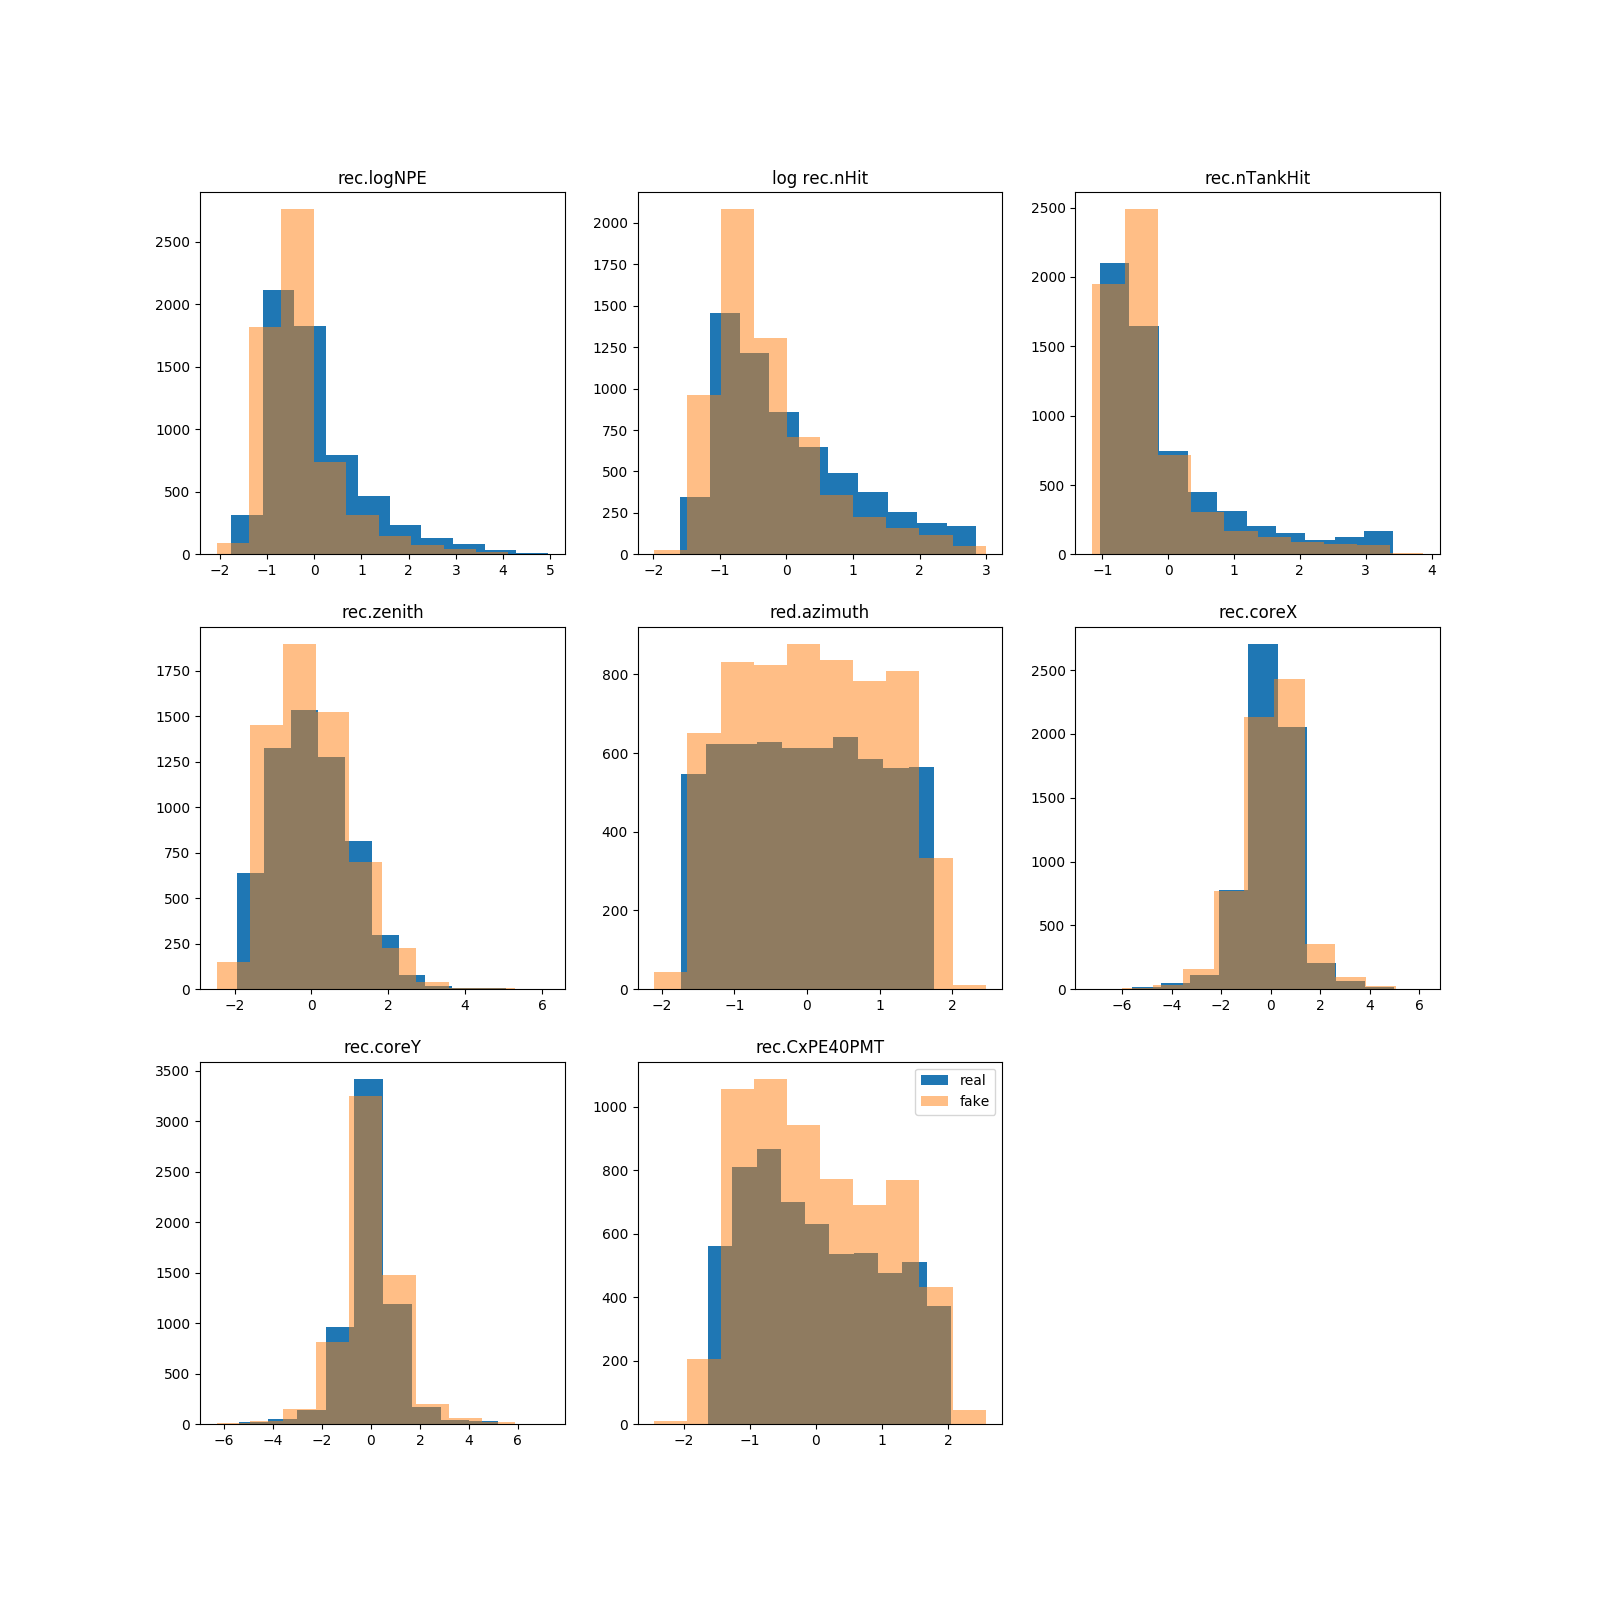
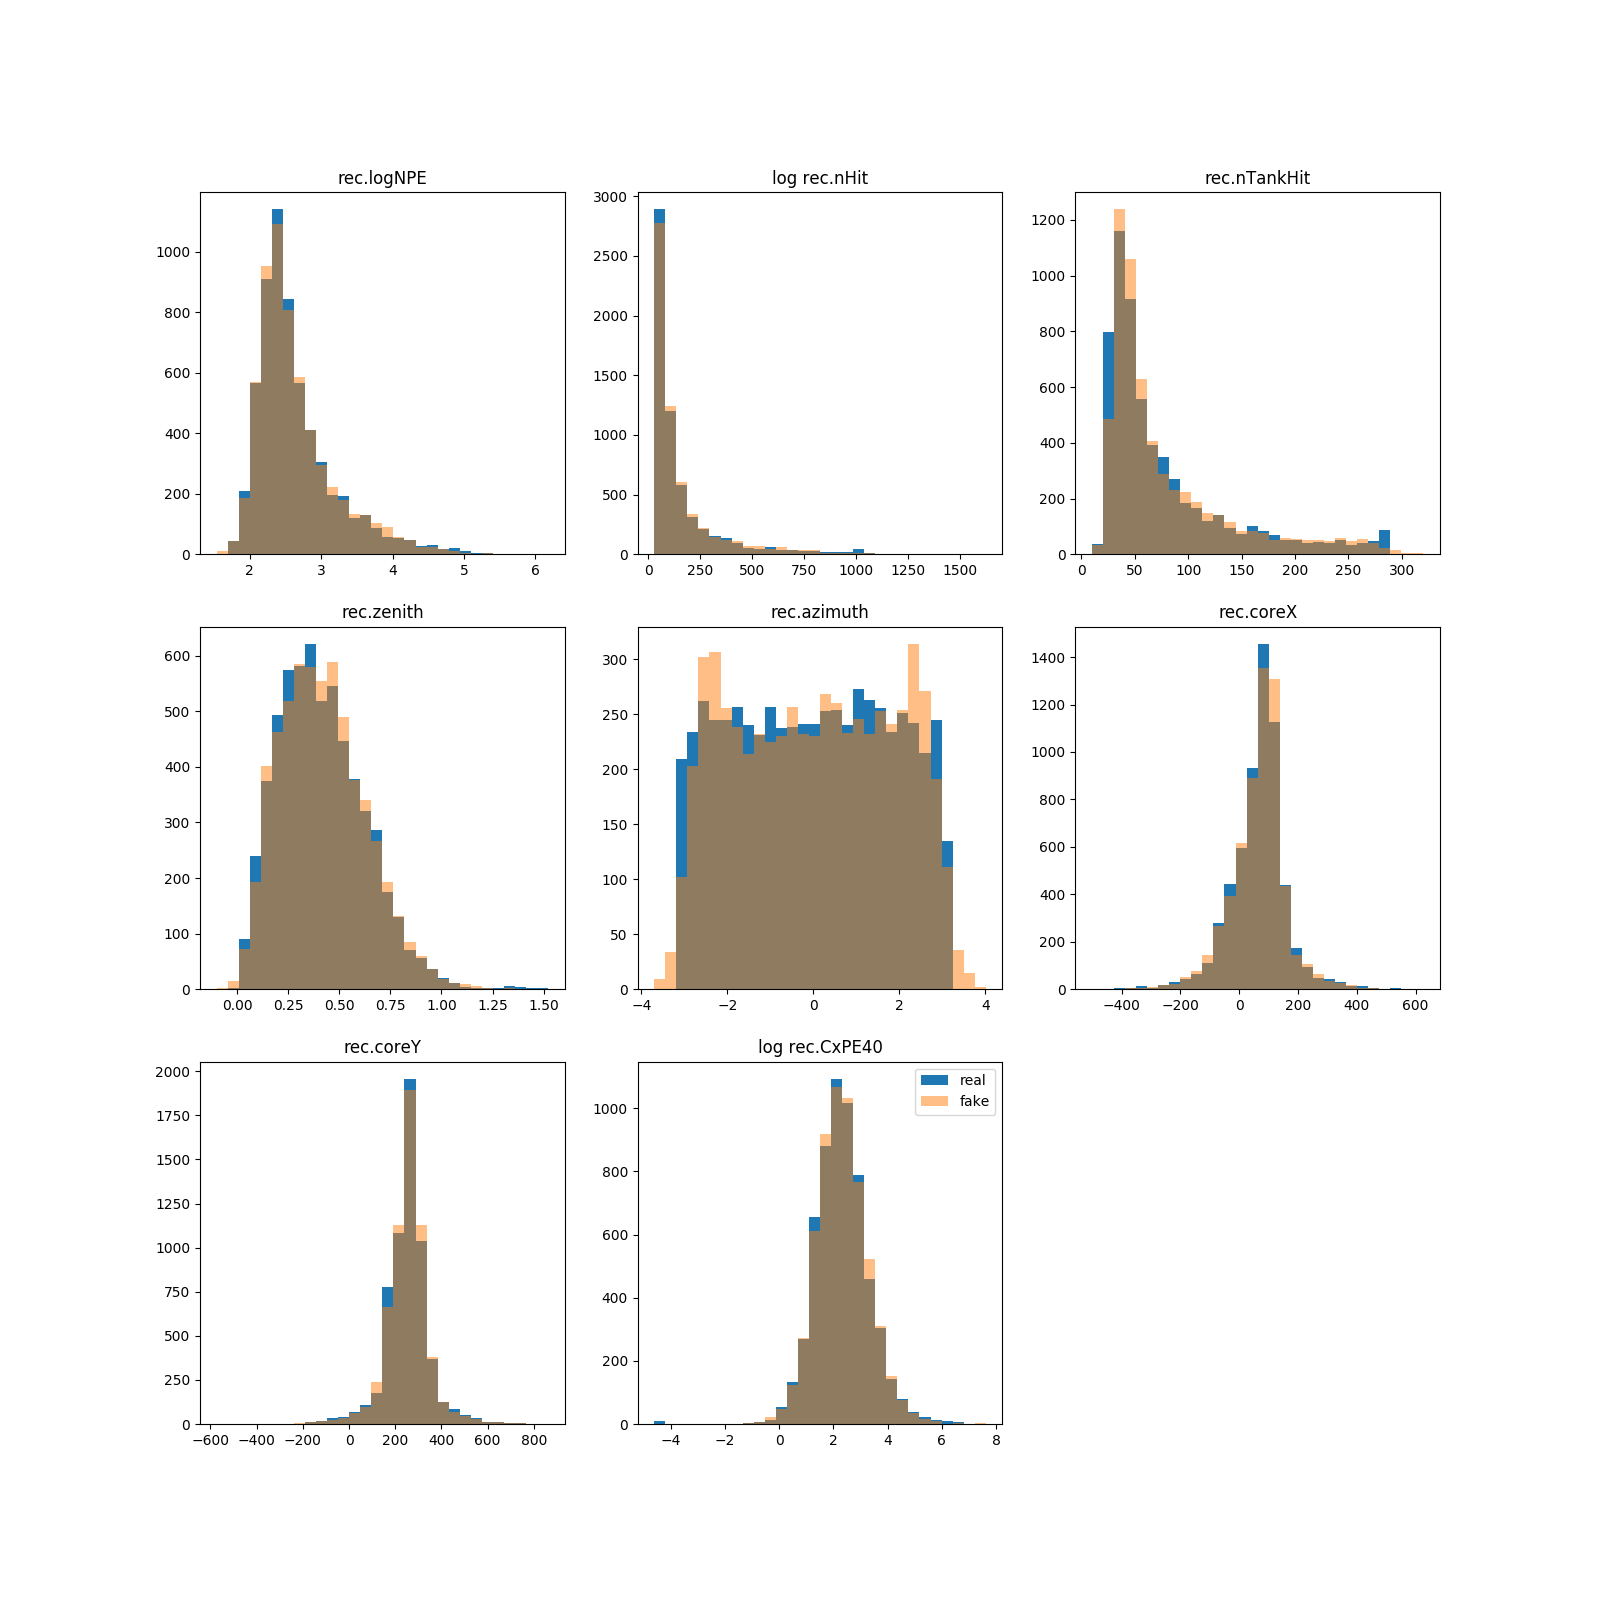
Updated plot for non-conditional 1D GAN

diff --git a/param-gen/Vanilla 1DGAN/parameterGAN.py b/param-gen/Vanilla 1DGAN/parameterGAN.py
@@ -68,7 +68,10 @@ dd = {'u': uniform, 'n': normal, 'e': exponential} 	# Dictionary of different di
 # latent   = [dd['n'](0, 1)] * 10 + [dd['n'](0, 1)] * 6 + [dd['e'](1)] * 4
 latent = [dd['n'](0, 1)] * z_dim			# Creates a latent space entirely sampled from N(0, 1)
 labels = {0: "rec.logNPE", 1: "log rec.nHit", 2: "rec.nTankHit", 3: "rec.zenith", 
-          4: "red.azimuth", 5: "rec.coreX", 6: "rec.coreY", 7: "log rec.CxPE40"}
+          4: "rec.azimuth", 5: "rec.coreX", 6: "rec.coreY", 7: "log rec.CxPE40"}
+means   = [2.6437070e+00, 4.6785073e+00, 7.7988869e+01, 4.1661051e-01, -1.4959634e-02, 6.5947525e+01, 2.5352551e+02, 2.3246317e+00]  # List of means for the loaded data
+stddevs = [0.5642389, 0.80296326, 61.57711, 0.2091742, 1.8062998, 94.742744, 94.72378, 0.9968804]									 # List of standard deviations for the loaded data
+logs    = [0, 1, 0, 0, 0, 0, 0, 0]																									 # Keep track of variables where we applied log	
 ## Sanity Checks ##
 assert z_dim >= Dimension
 assert z_dim == len(latent)
@@ -133,8 +136,8 @@ for epoch in range(epochs):
 		  (epoch, Gloss, total_loss, time.time() - train_t, lr))
 	# Just in case overfitting causes mode collapse
 	lr *= lr_decay
-	# Visualize the output every 10 epochs
-	if epoch % 10 == 0:
+	# Visualize the train output every 10 epochs
+	if epoch % 10 == 0 and epoch % 100 != 0:
 		with torch.no_grad():
 			D.eval()
 			G.eval()
@@ -157,13 +160,20 @@ for epoch in range(epochs):
 			for i in range(Dimension):
 				plt.subplot(x, y, i+1)
 				plt.title(labels[i])
-				plt.hist(real[:,i]   , alpha=1, bins=30, range=(-6,6), label='real')
-				plt.hist(samples[:,i], alpha=.5, bins=30, range=(-6,6), label='fake')
+				realhist = (real[:,i]*stddevs[i])+means[i]
+				fakehist = (samples[:,i]*stddevs[i])+means[i]
+				if (logs[i] == 1):
+					realhist = np.exp(realhist)
+					fakehist = np.exp(fakehist)
+				bins = np.histogram(np.hstack((realhist, fakehist)), bins=30)[1]
+				plt.hist(realhist, bins, alpha=1, label='real')
+				plt.hist(fakehist, bins, alpha=.5, label='fake')
+
 			plt.legend(loc='upper right')
 			plt.savefig('paramGANplots/hist'+str(epoch)+".png")
 			plt.close(fig)
 	test_inp = None
-	# Visualize the output every 100 epochs
+	# Visualize the test output every 100 epochs
 	if epoch % 100 == 0:
 		with torch.no_grad():
 			D.eval()
@@ -191,8 +201,14 @@ for epoch in range(epochs):
 			for i in range(Dimension):
 				plt.subplot(x, y, i+1)
 				plt.title(labels[i])
-				plt.hist(real[:,i]   , alpha=1, bins=30, range=(-6,6), label='real')
-				plt.hist(samples[:,i], alpha=.5, bins=30, range=(-6,6), label='fake')
+				realhist = (real[:,i]*stddevs[i])+means[i]
+				fakehist = (samples[:,i]*stddevs[i])+means[i]
+				if (logs[i] == 1):
+					realhist = np.exp(realhist)
+					fakehist = np.exp(fakehist)
+				bins = np.histogram(np.hstack((realhist, fakehist)), bins=30)[1]
+				plt.hist(realhist, bins, alpha=1, label='real')
+				plt.hist(fakehist, bins, alpha=.5, label='fake')
 			plt.legend(loc='upper right')
 			plt.savefig('paramGANplots/hist'+str(epoch)+".png")
 			plt.close(fig)

diff --git a/parse_hawc.py b/parse_hawc.py
@@ -22,10 +22,10 @@ def gen_gamma_params(path="./HAWC/"):
         xf = XCDFFile(xcdf_file)
         data = []
         # Normal 1D (no conditional)
-        # params = "rec.logNPE, rec.nHit, rec.nTankHit, rec.zenithAngle, rec.azimuthAngle, rec.coreX, rec.coreY, rec.CxPE40PMT"
+        params = "rec.logNPE, rec.nHit, rec.nTankHit, rec.zenithAngle, rec.azimuthAngle, rec.coreX, rec.coreY, rec.CxPE40"
         # For conditional
-        params = "rec.logNPE, rec.nHit, rec.nTankHit, rec.zenithAngle, rec.azimuthAngle, rec.coreX, rec.coreY, rec.CxPE40, \
-        SimEvent.energyTrue, SimEvent.thetaTrue, SimEvent.phiTrue"
+        # params = "rec.logNPE, rec.nHit, rec.nTankHit, rec.zenithAngle, rec.azimuthAngle, rec.coreX, rec.coreY, rec.CxPE40, \
+        # SimEvent.energyTrue, SimEvent.thetaTrue, SimEvent.phiTrue"
         for param in xf.fields(params):
             if abs(param[3] - np.pi) > .01:
                 data.append(param)
@@ -33,9 +33,9 @@ def gen_gamma_params(path="./HAWC/"):
     total_data = np.array(total_data, dtype=np.float32)
     # Simple data augmentation
     total_data[:, 1] = np.log(total_data[:, 1]) # Take the log of rec.nHit
-    total_data[:, 7] = np.log(total_data[:, 7]+.01) # Take the log of rec.rec.CxPE40
-    total_data[:, 8] = np.log(total_data[:, 8]) # For conditional only (Very important to have)
-    assert total_data.shape == (total_data.shape[0], 11)  # 8 expected for no condition, 11 expected for conditional
+    total_data[:, 7] = np.log(total_data[:, 7]+.01) # Take the log of rec.CxPE40
+    # total_data[:, 8] = np.log(total_data[:, 8]) # For conditional only (Very important to have)
+    assert total_data.shape == (total_data.shape[0], 8)  # 8 expected for no condition, 11 expected for conditional
     print("shuffling")
     np.random.shuffle(total_data)
     print(total_data[:15, :])

diff --git a/param-gen/Vanilla 1DGAN/data.py b/param-gen/Vanilla 1DGAN/data.py
@@ -8,10 +8,7 @@ import torch.functional as F
 class Data(Dataset):
 	def __init__(self, train, split_size=0.8, normalize=False, conditional=False):
 		assert 0 < split_size < 1
-		# self.dataset = np.load("gamma_data_nosparse.npy")
-		self.dataset = np.load("../gamma_data.npy")
-		# self.dataset[:, 0] = np.log(self.dataset[:, 0]) # Just for SimEvent.nEMParticles
-		# self.dataset[:, 4] = np.log(self.dataset[:, 4]) # Just for SimEvent.nHit
+		self.dataset = np.load("../../gamma_data.npy")
 		self.len = self.dataset.shape[0]
 		if train:
 			self.len = int(self.len * split_size)
@@ -20,10 +17,8 @@ class Data(Dataset):
 			self.len = self.len - int(self.len * split_size)
 			self.dataset = self.dataset[self.len:]
 		if normalize:
-			self.dataset -= [ 2.6437490e+00,  4.6791139e+00,  7.8025818e+01,  4.1586936e-01,
-	   -5.8107176e-03,  6.5650093e+01,  2.5367000e+02,  5.3349188e+02]
-			self.dataset /= [5.6474817e-01, 8.0267268e-01, 6.1667343e+01, 2.0911543e-01,
-	   1.8022212e+00, 9.4777672e+01, 9.4920013e+01, 3.2656406e+02]
+			self.dataset -= [2.6437070e+00, 4.6785073e+00, 7.7988869e+01, 4.1661051e-01, -1.4959634e-02, 6.5947525e+01, 2.5352551e+02, 2.3246317e+00]
+			self.dataset /= [0.5642389, 0.80296326, 61.57711, 0.2091742, 1.8062998, 94.742744, 94.72378, 0.9968804]
 	def __getitem__(self, item):
 		assert self.len > item
 		vec = self.dataset[item]
